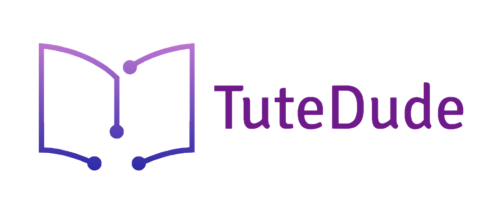
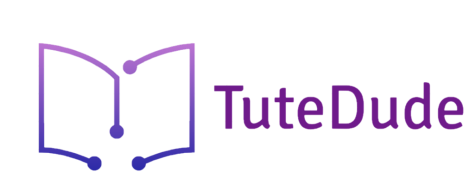
fixes

Changed region(s): [[0.0591, 0.1882, 1.0, 0.914]]

diff --git a/styles.css b/styles.css
@@ -24,15 +24,15 @@ body {
 /* smartphones, Android phones, landscape iPhone */
 header {
   display: flex;
-  align-items: center;
+  align-items: flex-end;
   justify-content: space-between;
-  padding: 4rem 1rem 0;
-  box-shadow: rgb(0, 0, 0, 30%) 0px 5px 8px;
+  padding: 4rem 1rem 0.7rem;
+  box-shadow: rgb(0, 0, 0, 20%) 0px 4px 5px;
   background-color: white;
   margin-bottom: 5rem;
 }
 .logo {
-  width: 13rem;
+  width: 13.5rem;
 }
 .flexDis {
   display: flex;
@@ -53,13 +53,13 @@ button:active {
   padding: 0.4rem 0.6rem;
   margin-right: 0.5rem;
   font-family: "Poppins", sans-serif;
-  font-size: 1.2rem;
+  font-size: 1.3rem;
 }
 .btn-light {
   border: 0.15rem solid #800780;
   background: none;
   color: #800780;
-  font-weight: 700;
+  font-weight: 600;
 }
 .btn-fill {
   border: none;
@@ -77,7 +77,7 @@ main p {
 .card-light {
   margin: 3rem auto;
   border-radius: 0.5rem;
-  box-shadow: rgb(0, 0, 0, 25%) 0px 5px 5px;
+  box-shadow: rgb(0, 0, 0, 20%) 0px 4px 5px;
   width: 75%;
   padding: 2rem 0rem;
   color: #800780;
@@ -86,7 +86,7 @@ main p {
 .card-fill {
   margin: 3rem auto;
   border-radius: 0.5rem;
-  box-shadow: rgb(0, 0, 0, 25%) 0px 5px 5px;
+  box-shadow: rgb(0, 0, 0, 20%) 0px 4px 5px;
   padding: 1rem 2rem;
   color: white;
   background-color: #800780;
@@ -119,7 +119,7 @@ main p {
   background-color: #dcbadc;
   padding: 2rem 4rem;
   border-radius: 0.5rem 0.5rem 0 0;
-  box-shadow: rgb(0, 0, 0, 25%) 0px -5px 5px;
+  box-shadow: rgb(0, 0, 0, 25%) 0px -4px 5px;
 }
 .just {
   margin-top: 1rem;
@@ -180,12 +180,13 @@ main p {
   height: 10rem;
   padding: 0.2rem;
   border-radius: 2rem;
-  box-shadow: rgb(0, 0, 0, 25%) 0px 5px 5px;
+  box-shadow: rgb(0, 0, 0, 25%) 0px 4px 5px;
   margin-bottom: 0.5rem;
 }
 .recipe-head {
   width: 30rem;
   padding: 1rem 6rem;
+  box-shadow: rgb(0, 0, 0, 25%) 0px 4px 5px;
 }
 .card-shine {
   position: relative;
@@ -202,7 +203,7 @@ main p {
   margin-top: 12rem;
   padding: 12rem 3rem 4rem 6rem;
   border-radius: 0.5rem;
-  box-shadow: rgb(0, 0, 0, 25%) 0px 5px 5px;
+  box-shadow: rgb(0, 0, 0, 25%) 0px 4px 5px;
 }
 
 .card-shine ul li {
@@ -271,7 +272,7 @@ main p {
   color: white;
   padding: 2rem 4rem 2rem;
   border-radius: 0.8rem;
-  box-shadow: rgb(0, 0, 0, 25%) 0px 5px 5px;
+  box-shadow: rgb(0, 0, 0, 25%) 0px 4px 5px;
   background: linear-gradient(to right, #b46fcf, #8657c1);
   font-weight: 600;
 }
@@ -285,20 +286,20 @@ main p {
   font-size: 1.6rem;
   font-weight: 600;
 }
-.categories {
-  display: flex;
-  width: 97%;
-  overflow: scroll;
-}
+
 .know-more {
   padding: 1rem;
   font-weight: 700;
   font-size: 1.8rem;
   border: none;
 }
+.categories {
+  display: flex;
+  overflow: scroll;
+}
 .skills {
   background-color: #efe4ef;
-  padding: 3rem 2rem;
+  padding: 3rem 0rem;
   text-align: left;
 }
 .skills-head {
@@ -308,6 +309,9 @@ main p {
   display: flex;
   align-items: center;
   justify-content: center;
+}
+.skills h4 {
+  margin-left: 2rem;
 }
 .categories button {
   border-radius: 4rem;
